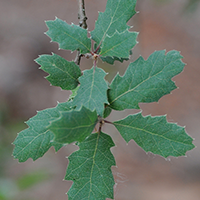
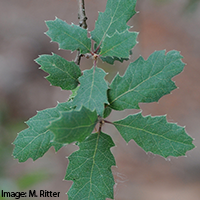
Add files via upload

Changed region(s): [[0.0, 0.93, 0.3, 1.0]]

diff --git a/index.html b/index.html
@@ -37,6 +37,7 @@
                </div><!--treetooltip-->   
         <div class="pictureHolder">
            <img src="images/treeQagrifolia.png" alt="Coast Live Oak" style="width:90%;">
+           <p class="imageAttribution">Image: K. Nessen, M. Ritter</p>
         </div>
         <div class="identifiers">
           <div class="acornOutline" id="drop1a" data-oak-type="Qagrifolia"><img  src="images/acornOutline.png" alt="acorn outline" style="width:90%;">
@@ -65,6 +66,7 @@
       </div><!--treetooltip-->   
           <div class="pictureHolder">    
         <img src="images/treeQdouglasii.png" alt="Blue Oak" style="width:90%;">
+        <p class="imageAttribution">Image:J.E.(Jed) and Bonnie McClellan California Academy of Sciences</p>
           </div>
         
         <div class="identifiers">
@@ -80,7 +82,7 @@
           </div><!--outlineDrop-->
           <div class="barkOutline" id="drop2b" data-oak-type="Qdouglasii"><img  src="images/barkOutline.png" alt="bark outline" style="width:90%;">
             <div class="tooltip">-bark-
-              <span class="tooltiptext">Light gray bark is shallowly checked with small brownish or redish squares</span>
+              <span class="tooltiptext">Light gray bark is shallowly checked with small brownish or reddish squares</span>
             </div> <!--tooltip-->
           </div><!--outlineDrop-->
         </div><!--identifiers-->
@@ -94,6 +96,7 @@
       </div><!--treetooltip-->
               <div class="pictureHolder">
         <img src="images/treeQkelloggii.png" alt="Black Oak" style="width:90%;">
+        <p class="imageAttribution">Image:M.Ritter</p>
               </div>
         <div class="identifiers">
           <div class="acornOutline" id="drop3a" data-oak-type="Qkelloggii"><img src="images/acornOutline.png" alt="acorn outline" style="width:90%;">
@@ -122,6 +125,7 @@
         </div><!--treetooltip-->
               <div class="pictureHolder">
         <img src="images/treeQgarryana.png" alt="Oregon Oak" style="width: 65%">
+                <p class="imageAttribution">Image:M.Ritter, C.Stubler, W.Mark, J.Reimer</p>
               </div>
         <div class="identifiers">
           <div class="acornOutline" id="drop4a" data-oak-type="Qgarryana"><img src="images/acornOutline.png" alt="acorn outline" style="width:90%;">
@@ -150,6 +154,7 @@
         </div><!--treetooltip-->
               <div class="pictureHolder">
         <img src="images/treeQlobata.png" alt="Valley Oak" style="width:87%;">
+        <p class="imageAttribution">Image: M.Ritter</p>
        </div> 
         <div class="identifiers">
           <div class="acornOutline" id="drop5a" data-oak-type="Qlobata"><img src="images/acornOutline.png" alt="acorn outline" style="width:90%;">
@@ -176,9 +181,10 @@
         <div class="treeName"><p class="oakName"><b>Interior Live Oak</b>   <i>(Quercus wislizenii)</i></p></div><!--treeName-->
           <span class="treetooltiptext">Evergreen tree<br><br>30 – 75 ft tall, often broader than tall<br><br>Spreading, with dense, rounded canopy<br><br>Young plants are sparse and angular</span>
         </div><!--treetooltip-->
-               <div class="pictureHolder">
-        <img src="images/treeQwislizenii.png" alt="Interior Live Oak" style="width:87%;">
-               </div>
+          <div class="pictureHolder">
+            <img src="images/treeQwislizenii.png" alt="Interior Live Oak" style="width:87%;">
+            <p class="imageAttribution">Image:M.Ritter</p>
+          </div>
         <div class="identifiers">
           <div class="acornOutline" id="drop6a" data-oak-type="Qwislizenii"><img src="images/acornOutline.png" alt="acorn outline" style="width:90%;">
             <div class="tooltip">-acorn-
@@ -204,9 +210,10 @@
         <div class="treeName"><p class="oakName"><b>Scrub Oak</b>   <i>(Quercus berberidifolia)</i></p></div><!--treeName-->
           <span class="treetooltiptext">Semievergreen shrub or tree<br><br>6 – 15 ft tall and wide<br><br>Dense growth</span>
         </div><!--treetooltip-->
-               <div class="pictureHolder">
-        <img src="images/treeQberberidifolia.png" alt="Scrub Oak" style="width:87%;">
-               </div>
+          <div class="pictureHolder">
+            <img src="images/treeQberberidifolia.png" alt="Scrub Oak" style="width:87%;">
+            <p class="imageAttribution">Image: © 2014 James Gonsman CC-BY-NC 4.0</p>
+          </div>
         <div class="identifiers">
           <div class="acornOutline" id="drop7a" data-oak-type="Qberberidifolia"><img src="images/acornOutline.png" alt="acorn outline" style="width:90%;">
             <div class="tooltip">-acorn-
@@ -232,9 +239,10 @@
         <div class="treeName"><p class="oakName"><b>Leather Oak</b>   <i>(Quercus durata)</i></p></div><!--treeName-->
           <span class="treetooltiptext">Evergreen shrub<br><br>Grows to 10 ft tall and 8 – 12 ft wide<br><br>Can be bare and leggy up to 3 – 5 ft above the ground. <br><br>Dense, rounded growth</span>
         </div><!--treetooltip-->
- <div class="pictureHolder">
-        <img src="images/treeQdurata.png" alt="Leather Oak" style="width: 100%;">
-   </div>     
+          <div class="pictureHolder">
+            <img src="images/treeQdurata.png" alt="Leather Oak" style="width: 100%;">
+            <p class="imageAttribution">Image:J.Smith, W.Mark, J.Reimer</p>
+          </div>     
         <div class="identifiers">
           <div class="acornOutline" id="drop8a" data-oak-type="Qdurata"><img src="images/acornOutline.png" alt="acorn outline" style="width:90%;">
             <div class="tooltip">-acorn-
@@ -261,7 +269,8 @@
           <span class="treetooltiptext">Evergreen tree<br><br>Grows slowly, 20 – 60 ft tall and wide<br><br>Round head or spreading, with dense growth habit</span>
         </div><!--treetooltip-->
          <div class="pictureHolder">
-        <img src="images/treeQchrysolepis.png" alt="Canyon Live Oak" style="width: 63%;">
+           <img src="images/treeQchrysolepis.png" alt="Canyon Live Oak" style="width: 63%;">
+           <p class="imageAttribution">Image:C.Stubler, W.Mark, J.Reimer</p>
          </div>
         <div class="identifiers">
           <div class="acornOutline" id="drop9a" data-oak-type="Qchrysolepis"><img src="images/acornOutline.png" alt="acorn outline" style="width:90%;">
@@ -288,7 +297,7 @@
 		  <div id="identifierChoices" style="max-width: 50%;">
         
         <div id="acorn"> Acorn
-            <div class="acornImage" id="drag1a" data-oak-type="Qagrifolia"><img src="images/acornQagrifolia.png" alt="Quercus agrifolia acorn" style="width: 100%; height:auto";></div>
+            <div class="acornImage" id="drag1a" data-oak-type="Qagrifolia"><img src="images/acornQagrifolia.png" alt="Quercus agrifolia acorn" style="width: 100%; height:auto";></span></div>
             <div class="acornImage" id="drag2a" data-oak-type="Qdouglasii"><img src="images/acornQdouglasii.png" alt="Quercus douglasii acorn" style="width: 100%; height:auto";></div>
             <div class="acornImage" id="drag3a" data-oak-type="Qkelloggii"><img src="images/acornQkelloggii.png" alt="Quercus kelloggii acorn" style="width: 100%; height:auto";></div>
             <div class="acornImage" id="drag4a" data-oak-type="Qgarryana"><img src="images/acornQgarryana.png" alt="Quercus garryana acorn" style="width: 100%; height:auto";></div>

diff --git a/style.css b/style.css
@@ -57,6 +57,15 @@ html, body {
   max-height: 500px;
   margin: auto;
 }
+.imageAttribution{
+  text-align: left;
+  font-size: 0.65em;
+  line-height: 0em;
+  color: #616161;
+  margin-left: 120px;
+  margin-top: .25em;
+  padding: 0;
+}
  .tree{
   max-width: 100%;
   max-height: 100%;
@@ -68,11 +77,13 @@ html, body {
 		flex-wrap: nowrap;
 		justify-content: space-around;
   padding: 10px 20px 10px 20px;
+  margin-top: 0px;
 }
 .acornOutline, .leafOutline, .barkOutline{
     border: 2px dashed rgb(96, 56, 19);
     padding: 25px 5px 5px 5px;
     margin: 5px;
+    margin-top: 0px;
     width: 200px;
     height: 200px;
 }
@@ -145,7 +156,14 @@ html, body {
   flex-direction: column;
   max-width: 220px;
   overflow: scroll;
+  margin: 0;
   
+}
+#img{
+ text-align: left;
+ font-size: 8px;
+ margin: 0;
+ 
 }
 .hovered{
   background-color: rgb(96, 56, 19, 0.3);
